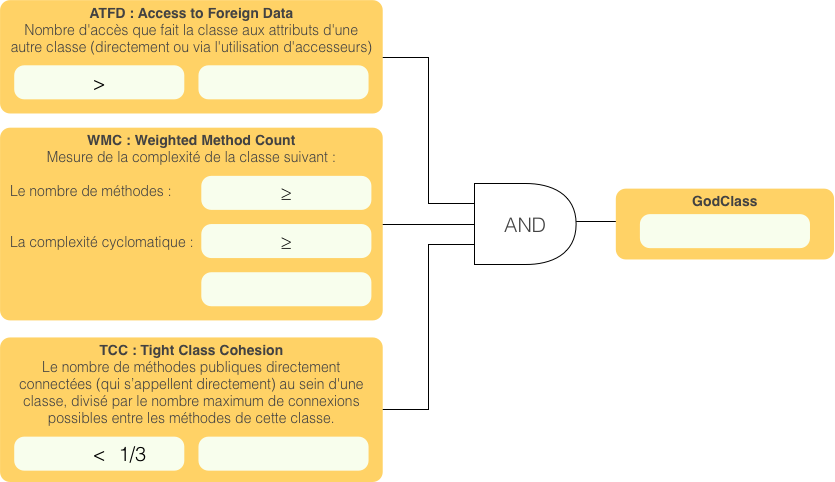
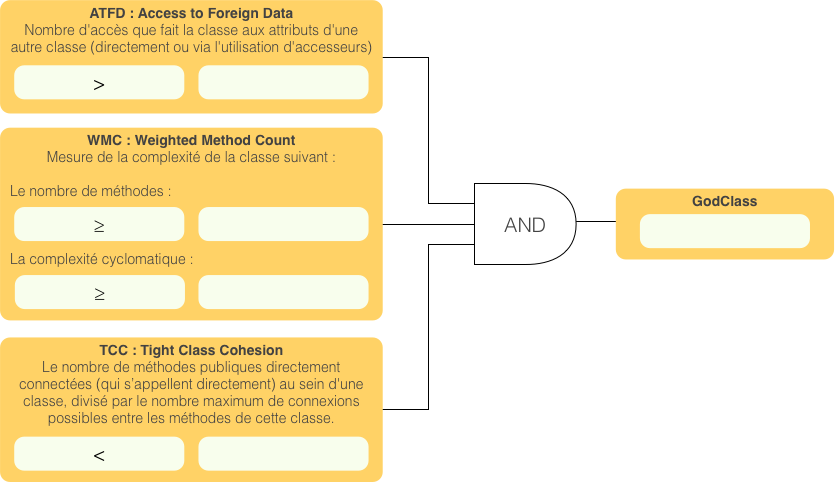
Updated GUI

Changed region(s): [[0.0, 0.3423, 0.4671, 0.6535], [0.1557, 0.9336, 0.1868, 0.9647]]

diff --git a/src/main/java/gui/MainFrame.java b/src/main/java/gui/MainFrame.java
@@ -5,9 +5,15 @@
  */
 package gui;
 
+import godclass.GodClassMediator;
 import dragdrop.DragDropPanelWithTitle;
+import godclass.ATFDLimitSpinner;
+import godclass.HorizontalAlignedColoredLabel;
+import godclass.MCCLimitSpinner;
+import godclass.TCCLimitSpinner;
+import godclass.WMCLimitSpinner;
 import java.awt.Dimension;
-import utils.TextAreaOutputStream;
+import org.netbeans.lib.awtextra.AbsoluteConstraints;
 
 /**
  *
@@ -18,7 +24,28 @@ public class MainFrame extends javax.swing.JFrame
     //<editor-fold defaultstate="collapsed" desc="Variables declaration">
     // Header
     private DragDropPanelWithTitle dragDropPanel;
-    private MainFrameMediator mediator;
+
+    // Concret Mediator
+    private GodClassMediator mediator;
+
+    // Concret Colleagues
+    private ATFDLimitSpinner atfdLimitSpinner;
+    private HorizontalAlignedColoredLabel atfdTFLabel;
+    private HorizontalAlignedColoredLabel atfdValueLabel;
+
+    private WMCLimitSpinner wmcLimitSpinner;
+    private HorizontalAlignedColoredLabel wmcTFLabel;
+    private HorizontalAlignedColoredLabel wmcValueLabel;
+
+    private MCCLimitSpinner mccLimitSpinner;
+    private HorizontalAlignedColoredLabel mccTFLabel;
+    private HorizontalAlignedColoredLabel mccValueLabel;
+
+    private TCCLimitSpinner tccLimitSpinner;
+    private HorizontalAlignedColoredLabel tccTFLabel;
+    private HorizontalAlignedColoredLabel tccValueLabel;
+
+    private HorizontalAlignedColoredLabel godClassTFLabel;
     //</editor-fold>
 
     //<editor-fold defaultstate="collapsed" desc="Constructors">
@@ -34,14 +61,69 @@ public class MainFrame extends javax.swing.JFrame
         this.setTitle(title);
 
         // Redirect the system output to a TextArea
-        TextAreaOutputStream toas = TextAreaOutputStream.getInstance(
+        /*TextAreaOutputStream toas = TextAreaOutputStream.getInstance(
             this.textAreaOutput);
+            */
 
         // Mediator
-        this.mediator = new MainFrameMediator();
+        this.mediator = new GodClassMediator();
+
+        // Colleagues
+        System.out.println("ATFD");
+        this.atfdLimitSpinner = new ATFDLimitSpinner(this.mediator);
+        this.atfdValueLabel   = new HorizontalAlignedColoredLabel(this.mediator, "ATFD ?");
+        this.atfdTFLabel      = new HorizontalAlignedColoredLabel(this.mediator, "TRUE or FALSE ?");
+
+        System.out.println("WMC");
+        this.wmcLimitSpinner = new WMCLimitSpinner(this.mediator);
+        this.wmcValueLabel   = new HorizontalAlignedColoredLabel(this.mediator, "WMC ?");
+        this.wmcTFLabel      = new HorizontalAlignedColoredLabel(this.mediator, "TRUE or FALSE ?");
+
+        System.out.println("MCC");
+        this.mccLimitSpinner = new MCCLimitSpinner(this.mediator);
+        this.mccValueLabel   = new HorizontalAlignedColoredLabel(this.mediator, "MCC ?");
+        this.mccTFLabel      = new HorizontalAlignedColoredLabel(this.mediator, "TRUE or FALSE ?");
+
+        System.out.println("TCC");
+        this.tccLimitSpinner = new TCCLimitSpinner(this.mediator);
+        this.tccValueLabel   = new HorizontalAlignedColoredLabel(this.mediator, "TCC ?");
+        this.tccTFLabel      = new HorizontalAlignedColoredLabel(this.mediator, "TRUE or FALSE ?");
+
+        this.godClassTFLabel = new HorizontalAlignedColoredLabel(this.mediator, "TRUE or FALSE ?");
+
+        // Register labels
+        this.mediator.registerATFDValueLabel(this.atfdValueLabel);
+        this.mediator.registerATFDTFLabel(this.atfdTFLabel);
+        this.mediator.registerWMCValueLabel(this.wmcValueLabel);
+        this.mediator.registerWMCTFLabel(this.wmcTFLabel);
+        this.mediator.registerMCCValueLabel(this.mccValueLabel);
+        this.mediator.registerMCCTFLabel(this.mccTFLabel);
+        this.mediator.registerTCCValueLabel(this.tccValueLabel);
+        this.mediator.registerTCCTFLabel(this.tccTFLabel);
+        this.mediator.registerGodClassTFLabel(this.godClassTFLabel);
+
+        // Populate "GodClass" panel
+        this.panelGodClass.add(this.atfdLimitSpinner, new AbsoluteConstraints(110, 70, 70, -1), 0);
+        this.panelGodClass.add(this.atfdValueLabel, new AbsoluteConstraints(20, 70, 70, 30), 0);
+        this.panelGodClass.add(this.atfdTFLabel, new AbsoluteConstraints(205, 70, 160, 30), 0);
+
+        this.panelGodClass.add(this.wmcLimitSpinner, new AbsoluteConstraints(110, 210, 70, -1), 0);
+        this.panelGodClass.add(this.wmcValueLabel, new AbsoluteConstraints(20, 210, 70, 30), 0);
+        this.panelGodClass.add(this.wmcTFLabel, new AbsoluteConstraints(200, 210, 170, 30), 0);
+
+        this.panelGodClass.add(this.mccLimitSpinner, new AbsoluteConstraints(110, 280, 70, -1), 0);
+        this.panelGodClass.add(this.mccValueLabel, new AbsoluteConstraints(20, 280, 70, 30), 0);
+        this.panelGodClass.add(this.mccTFLabel, new AbsoluteConstraints(200, 280, 170, 30), 0);
+
+        this.panelGodClass.add(this.tccLimitSpinner, new AbsoluteConstraints(110, 440, 70, -1), 0);
+        this.panelGodClass.add(this.tccValueLabel, new AbsoluteConstraints(20, 440, 70, 30), 0);
+        this.panelGodClass.add(this.tccTFLabel, new AbsoluteConstraints(200, 440, 160, 30), 0);
+
+        this.panelGodClass.add(this.godClassTFLabel, new AbsoluteConstraints(640, 210, 170, 40), 0);
 
         // Create drop panel
-        this.dragDropPanel = new DragDropPanelWithTitle("Déposer des fichiers ici ...");
+        this.dragDropPanel = new DragDropPanelWithTitle(
+            "Déposez un fichier ici", "Lachez maintenant !");
         this.dragDropPanel.addDragDropListener(this.mediator);
         this.dragDropPanel.setPreferredSize(new Dimension(0, 75));
         this.add(this.dragDropPanel, java.awt.BorderLayout.PAGE_START);
@@ -57,18 +139,6 @@ public class MainFrame extends javax.swing.JFrame
 
         tabbedPane = new javax.swing.JTabbedPane();
         panelGodClass = new javax.swing.JPanel();
-        spinnerATFDLimit = new javax.swing.JSpinner();
-        spinnerWMCMethodCountLimit = new javax.swing.JSpinner();
-        spinnerWMCLimit = new javax.swing.JSpinner();
-        spinnerTCCLimit = new javax.swing.JSpinner();
-        labelATFDValue = new javax.swing.JLabel();
-        labelATFDTF = new javax.swing.JLabel();
-        labelWMCMethodCountValue = new javax.swing.JLabel();
-        labelWMCValue = new javax.swing.JLabel();
-        labelWMCTF = new javax.swing.JLabel();
-        labelTCCValue = new javax.swing.JLabel();
-        labelTCCTF = new javax.swing.JLabel();
-        labelGodClassTF = new javax.swing.JLabel();
         labelBackground = new javax.swing.JLabel();
         panelStatistics = new javax.swing.JPanel();
         panelConsole = new javax.swing.JPanel();
@@ -80,50 +150,6 @@ public class MainFrame extends javax.swing.JFrame
         setResizable(false);
 
         panelGodClass.setLayout(new org.netbeans.lib.awtextra.AbsoluteLayout());
-
-        spinnerATFDLimit.setModel(new javax.swing.SpinnerNumberModel(Integer.valueOf(0), Integer.valueOf(0), null, Integer.valueOf(1)));
-        panelGodClass.add(spinnerATFDLimit, new org.netbeans.lib.awtextra.AbsoluteConstraints(110, 70, 70, -1));
-
-        spinnerWMCMethodCountLimit.setModel(new javax.swing.SpinnerNumberModel(Integer.valueOf(0), Integer.valueOf(0), null, Integer.valueOf(1)));
-        panelGodClass.add(spinnerWMCMethodCountLimit, new org.netbeans.lib.awtextra.AbsoluteConstraints(300, 180, 70, -1));
-
-        spinnerWMCLimit.setModel(new javax.swing.SpinnerNumberModel(Integer.valueOf(0), Integer.valueOf(0), null, Integer.valueOf(1)));
-        panelGodClass.add(spinnerWMCLimit, new org.netbeans.lib.awtextra.AbsoluteConstraints(300, 230, 70, -1));
-
-        spinnerTCCLimit.setModel(new javax.swing.SpinnerNumberModel(Double.valueOf(0.0d), Double.valueOf(0.0d), null, Double.valueOf(0.1d)));
-        panelGodClass.add(spinnerTCCLimit, new org.netbeans.lib.awtextra.AbsoluteConstraints(110, 440, 70, -1));
-
-        labelATFDValue.setHorizontalAlignment(javax.swing.SwingConstants.CENTER);
-        labelATFDValue.setText("ATFD ?");
-        panelGodClass.add(labelATFDValue, new org.netbeans.lib.awtextra.AbsoluteConstraints(20, 70, 70, 30));
-
-        labelATFDTF.setHorizontalAlignment(javax.swing.SwingConstants.CENTER);
-        labelATFDTF.setText("TRUE or FALSE ?");
-        panelGodClass.add(labelATFDTF, new org.netbeans.lib.awtextra.AbsoluteConstraints(205, 70, 160, 30));
-
-        labelWMCMethodCountValue.setHorizontalAlignment(javax.swing.SwingConstants.CENTER);
-        labelWMCMethodCountValue.setText("count ?");
-        panelGodClass.add(labelWMCMethodCountValue, new org.netbeans.lib.awtextra.AbsoluteConstraints(210, 180, 70, 30));
-
-        labelWMCValue.setHorizontalAlignment(javax.swing.SwingConstants.CENTER);
-        labelWMCValue.setText("WMC ?");
-        panelGodClass.add(labelWMCValue, new org.netbeans.lib.awtextra.AbsoluteConstraints(210, 220, 70, 40));
-
-        labelWMCTF.setHorizontalAlignment(javax.swing.SwingConstants.CENTER);
-        labelWMCTF.setText("TRUE or FALSE ?");
-        panelGodClass.add(labelWMCTF, new org.netbeans.lib.awtextra.AbsoluteConstraints(200, 270, 170, 40));
-
-        labelTCCValue.setHorizontalAlignment(javax.swing.SwingConstants.CENTER);
-        labelTCCValue.setText("TCC ?");
-        panelGodClass.add(labelTCCValue, new org.netbeans.lib.awtextra.AbsoluteConstraints(20, 440, 70, 30));
-
-        labelTCCTF.setHorizontalAlignment(javax.swing.SwingConstants.CENTER);
-        labelTCCTF.setText("TRUE or FALSE ?");
-        panelGodClass.add(labelTCCTF, new org.netbeans.lib.awtextra.AbsoluteConstraints(200, 440, 160, 30));
-
-        labelGodClassTF.setHorizontalAlignment(javax.swing.SwingConstants.CENTER);
-        labelGodClassTF.setText("TRUE or FALSE ?");
-        panelGodClass.add(labelGodClassTF, new org.netbeans.lib.awtextra.AbsoluteConstraints(640, 210, 170, 40));
 
         labelBackground.setIcon(new javax.swing.ImageIcon(getClass().getResource("/background.png"))); // NOI18N
         panelGodClass.add(labelBackground, new org.netbeans.lib.awtextra.AbsoluteConstraints(0, 0, -1, -1));
@@ -165,23 +191,11 @@ public class MainFrame extends javax.swing.JFrame
     //<editor-fold defaultstate="collapsed" desc="Generated Widgets">
     // Variables declaration - do not modify//GEN-BEGIN:variables
     private javax.swing.JButton buttonClearConsole;
-    private javax.swing.JLabel labelATFDTF;
-    private javax.swing.JLabel labelATFDValue;
     private javax.swing.JLabel labelBackground;
-    private javax.swing.JLabel labelGodClassTF;
-    private javax.swing.JLabel labelTCCTF;
-    private javax.swing.JLabel labelTCCValue;
-    private javax.swing.JLabel labelWMCMethodCountValue;
-    private javax.swing.JLabel labelWMCTF;
-    private javax.swing.JLabel labelWMCValue;
     private javax.swing.JPanel panelConsole;
     private javax.swing.JPanel panelGodClass;
     private javax.swing.JPanel panelStatistics;
     private javax.swing.JScrollPane scrollPaneTextAreaOutput;
-    private javax.swing.JSpinner spinnerATFDLimit;
-    private javax.swing.JSpinner spinnerTCCLimit;
-    private javax.swing.JSpinner spinnerWMCLimit;
-    private javax.swing.JSpinner spinnerWMCMethodCountLimit;
     private javax.swing.JTabbedPane tabbedPane;
     private javax.swing.JTextArea textAreaOutput;
     // End of variables declaration//GEN-END:variables
